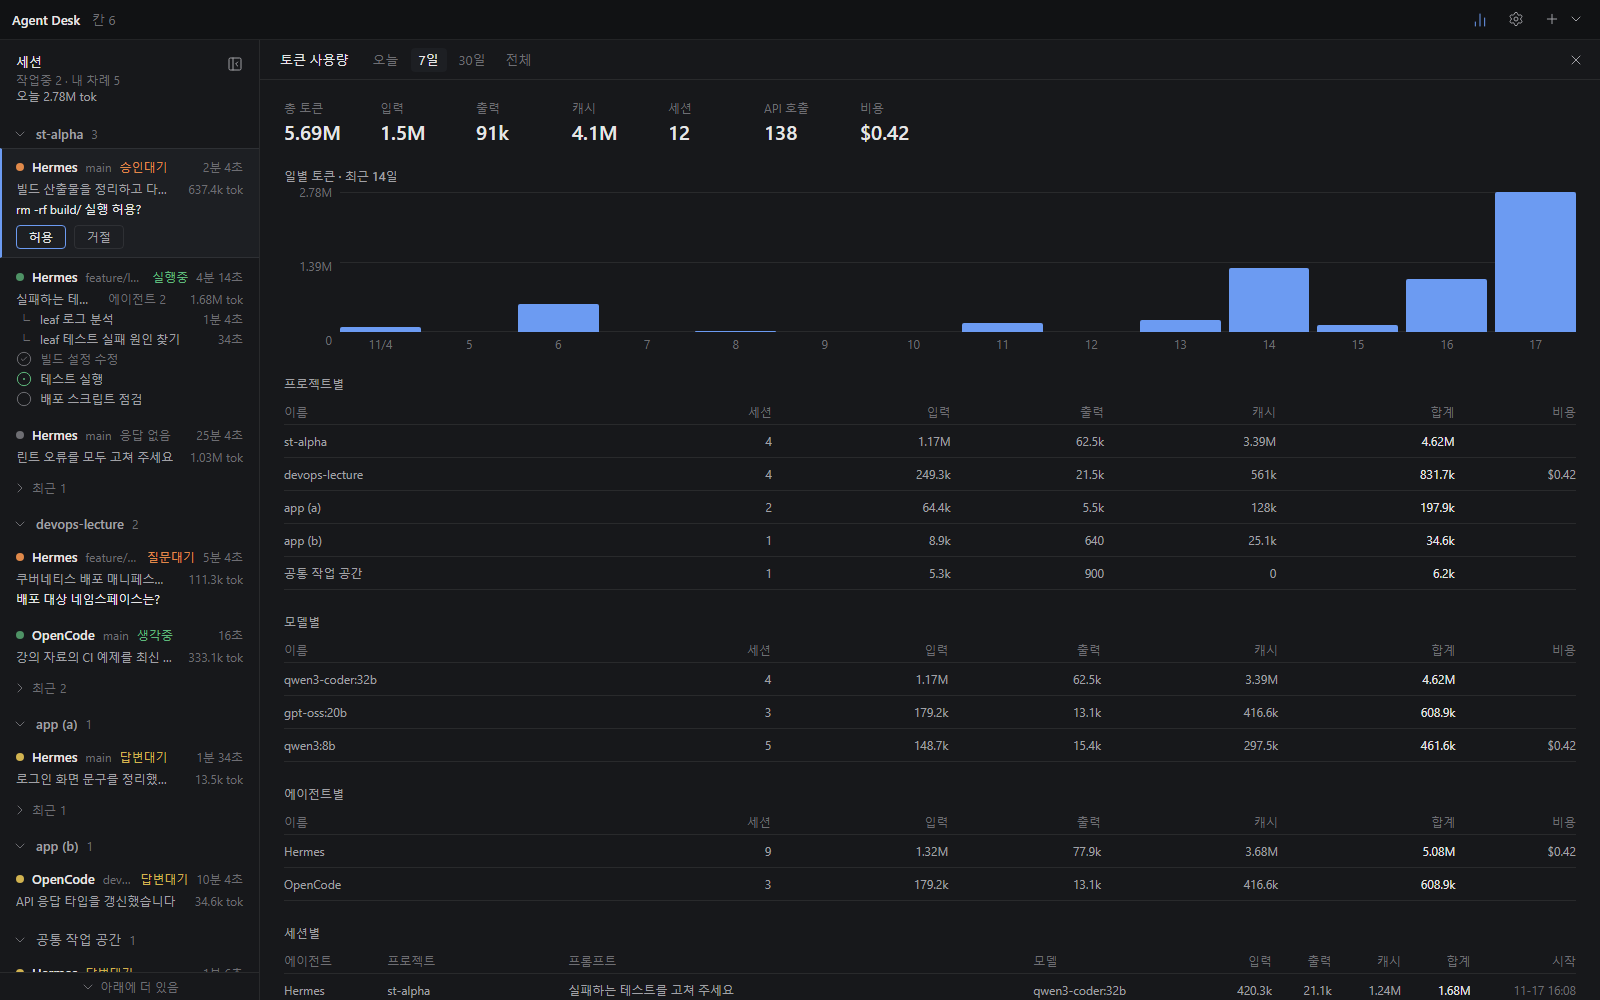
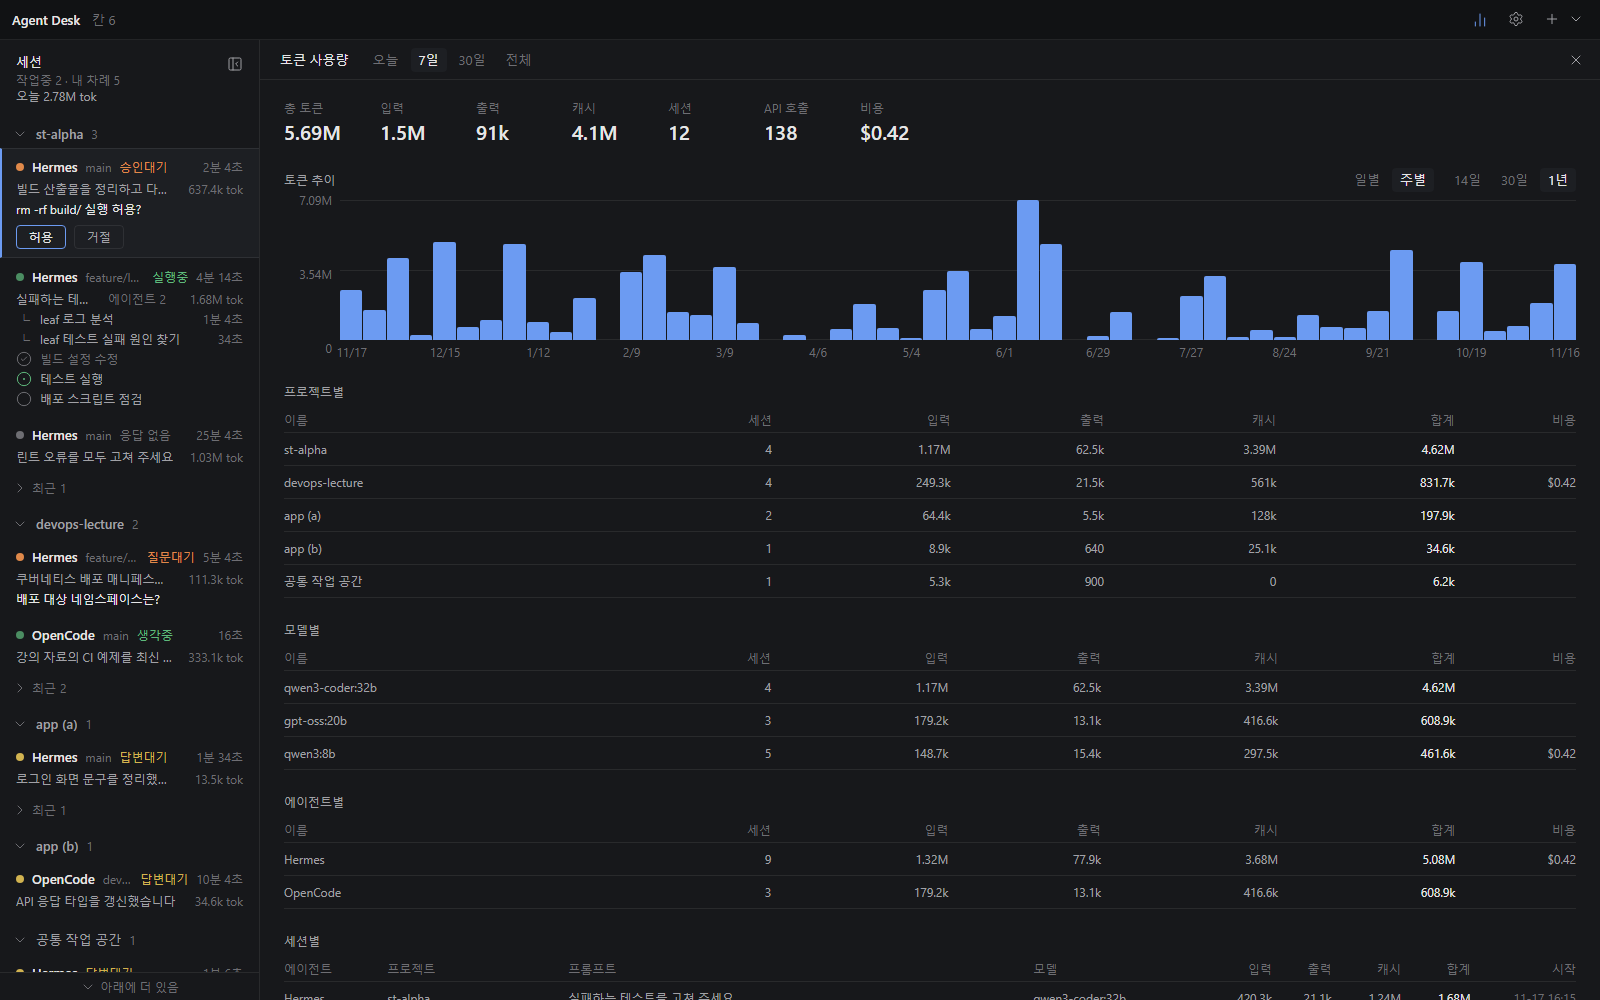
README: usage chart ranges; screenshot

diff --git a/README.md b/README.md
@@ -43,7 +43,7 @@ npm test           # 격자, 묶음, 시간 표시 로직 테스트
 - [+]는 설정에서 정한 기본 에이전트와 폴더로 바로 칸을 연다. 옆의 화살표로 다른 에이전트나 폴더를 고를 수 있다.
 - Hermes 칸의 터미널 내용은 실제 Hermes CLI(v0.23.2) 화면을 소스 기준으로 재현한 것이다. 근거는 [desk/HERMES_UI_NOTES.md](desk/HERMES_UI_NOTES.md)에 있다.
 - 승인·질문 내용, 입력창, 모델 표시는 Hermes 자체 화면에 맡긴다. 앱은 칸 하단 진행 줄, 생각 중 아이콘, 헤더 상태 점만 덧붙인다.
-- 토큰 사용량: 패널의 세션마다 토큰 수가 표시된다. 사용량 화면에서는 기간별 합계, 14일 일별 차트, 프로젝트별·모델별·에이전트별·세션별 표를 볼 수 있다. 세션 행을 누르면 그 칸으로 이동한다.
+- 토큰 사용량: 패널의 세션마다 토큰 수가 표시된다. 사용량 화면에서는 기간별 합계, 토큰 추이 차트(14일·30일·1년, 1년은 일별/주별 전환), 프로젝트별·모델별·에이전트별·세션별 표를 볼 수 있다. 세션 행을 누르면 그 칸으로 이동한다.
   - 실제 데이터는 Hermes `state.db`의 세션 토큰 컬럼에서 읽을 예정이다. 방식은 [codeburn](https://github.com/getagentseal/codeburn)(MIT)을 참고했고, 코드는 새로 작성했다.
   - 가격표는 넣지 않았다. 비용은 에이전트가 기록한 값이 있을 때만 표시한다.
 - 사용 중인 모델은 Hermes CLI가 자체 상태줄에 표시하므로 앱에서 따로 표시하지 않는다.
